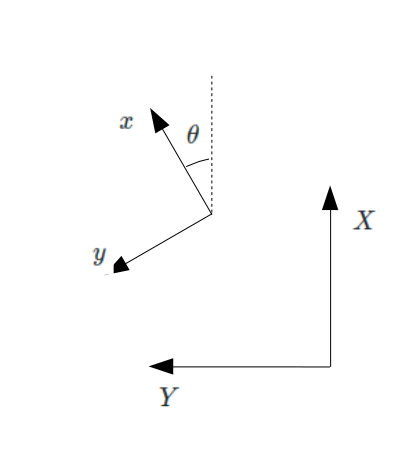
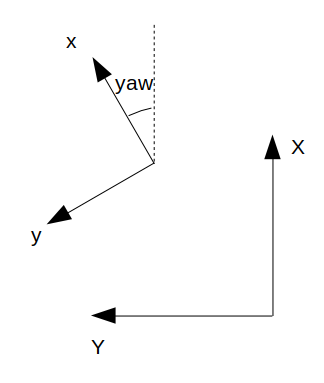
README.md - modify figure and remove math

diff --git a/README.md b/README.md
@@ -19,23 +19,10 @@ git clone git@github.com:RyosukeMatsushima/ekf_py_experiment.git --recursive
 
 ![2d robot model](docs/2d_robot_model.png)
 
-The state to estimate is
+The state estimated by EKF is position X, Y in inertial coordinate system and it's velocity and yaw.
 
-$$
-x = 
-\begin{bmatrix}
-X\\
-Y\\
-\dot{X}\\
-\dot{Y}\\
-\theta\\
-\end{bmatrix}.
-$$
-
-IMU sensor data to predict are acceleration $[a_x, a_y]$ and angular velocity $\omega$ on robot coodinate.
-
-Position data to update state is $[y_X, y_Y]$.
-
+IMU sensor data to predict the state are acceleration and angular velocity on robot coodinate.
+Position data is needed to update state.
 All input data includes sensor noise.
 
 ### Run
